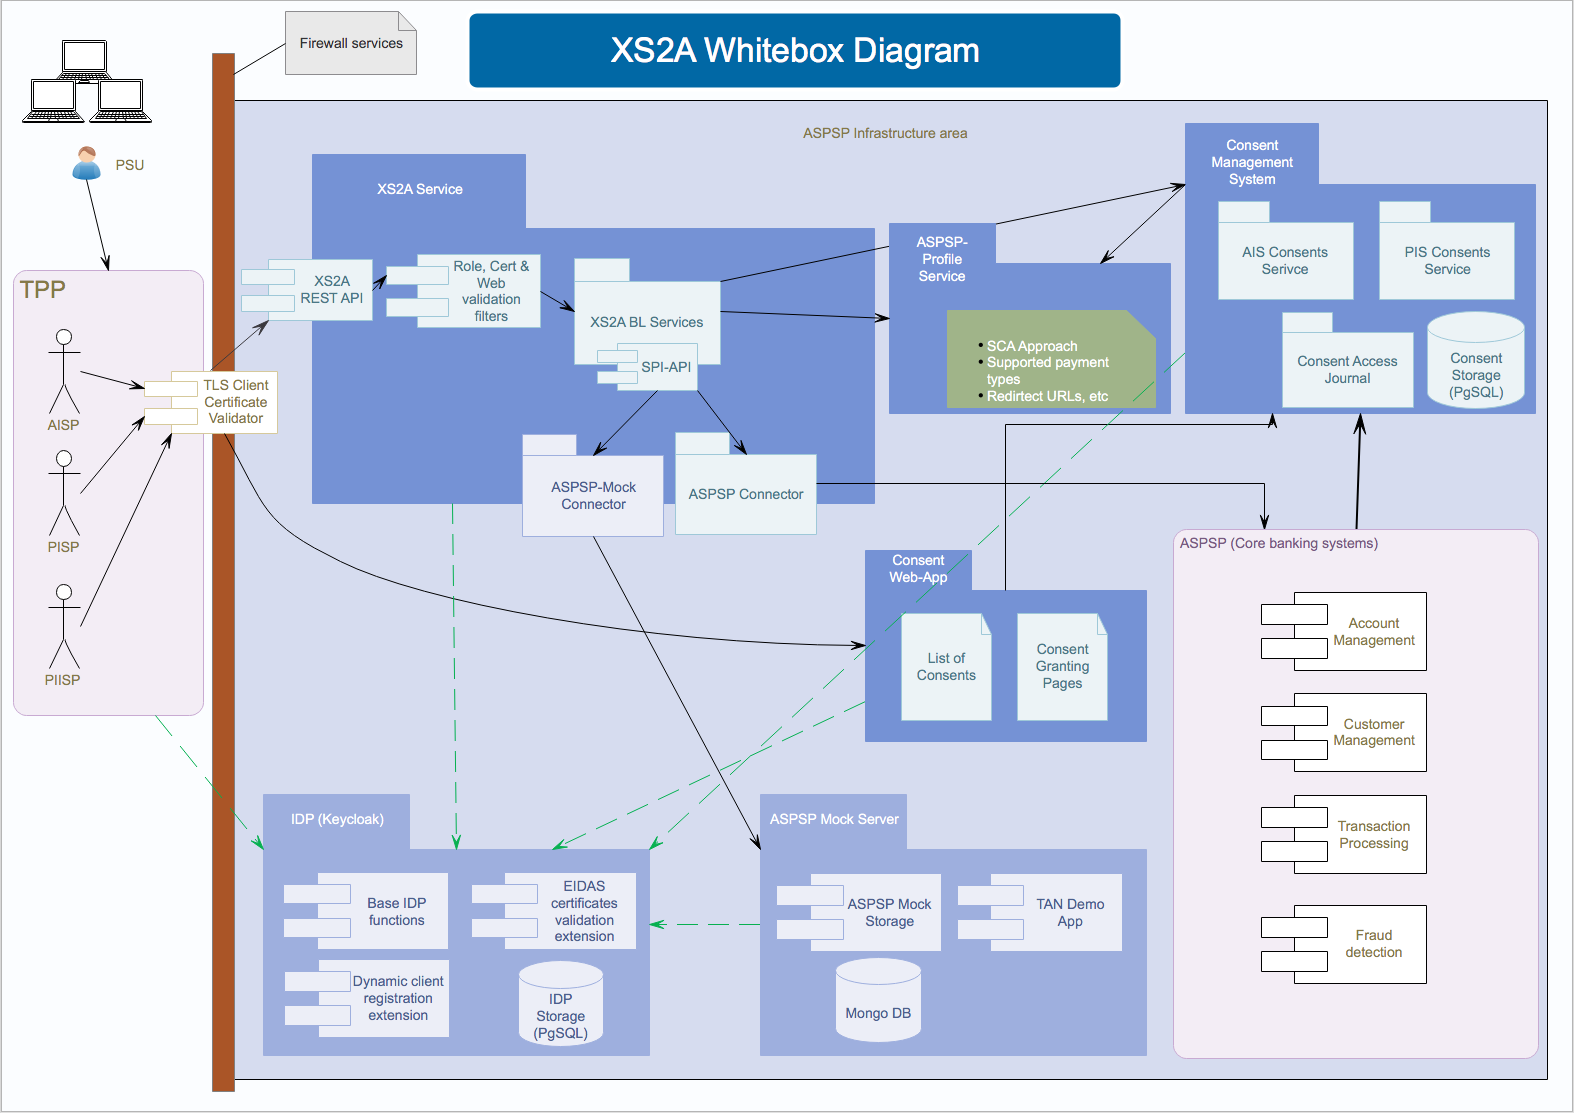
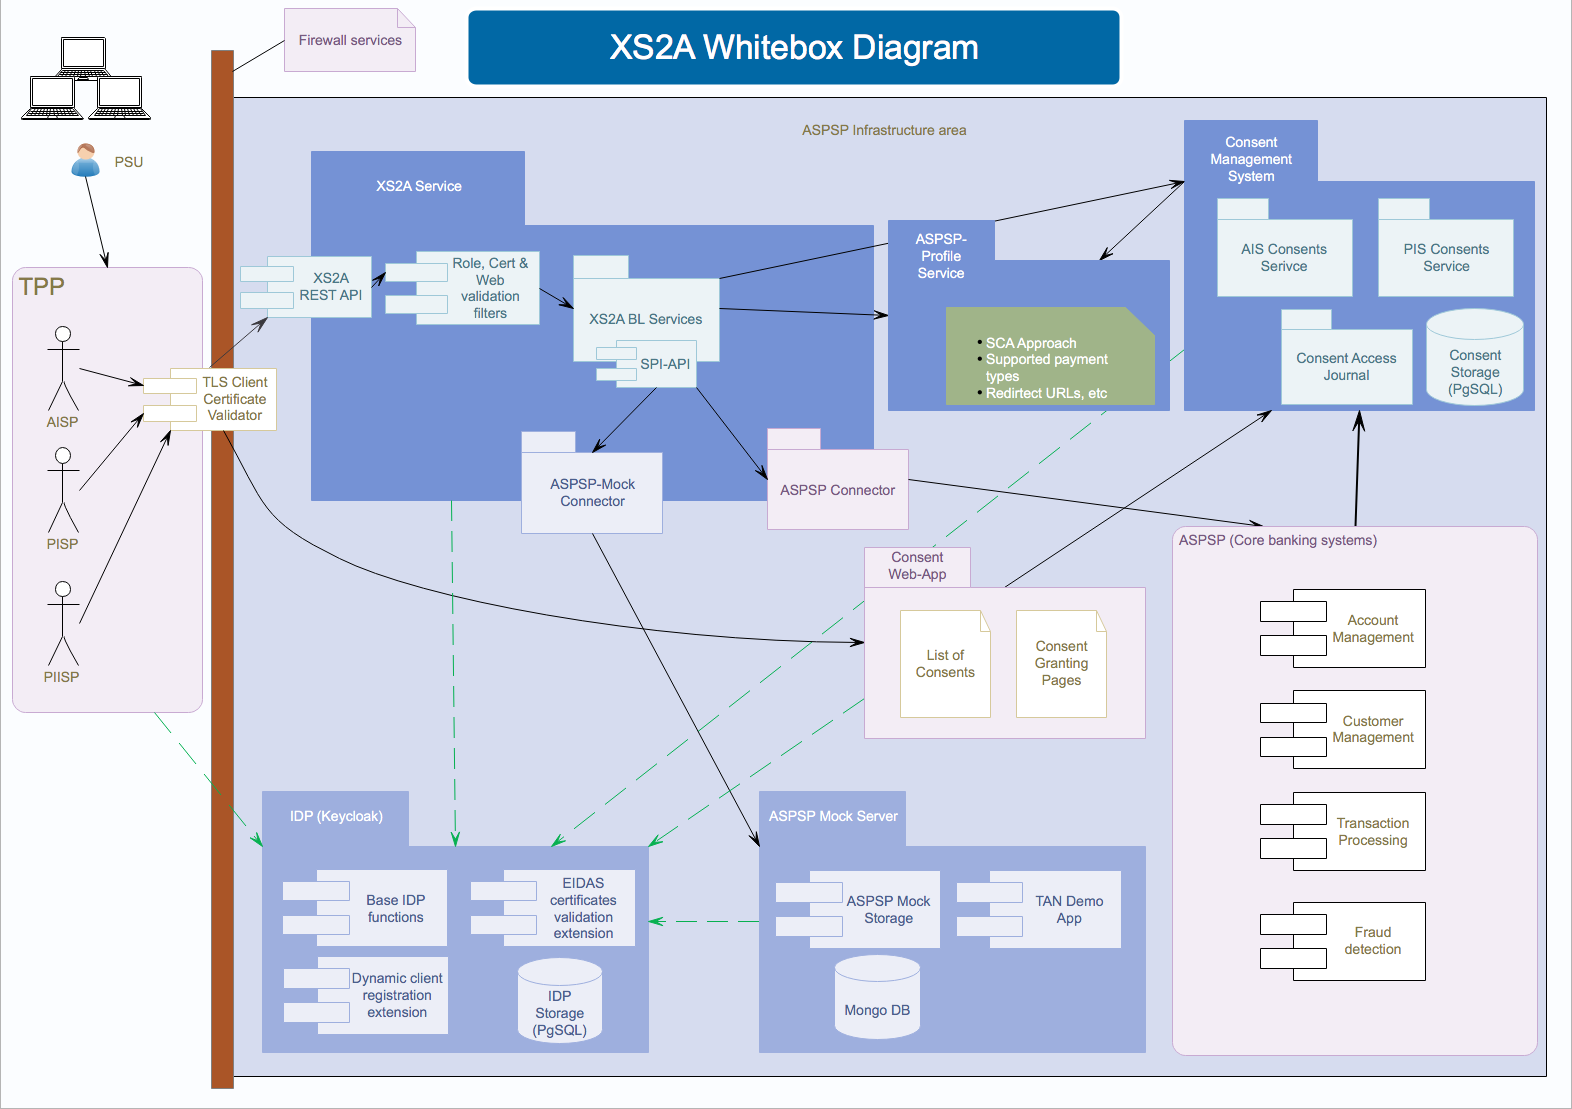
Update architecture description

diff --git a/doc/architecture/README.md b/doc/architecture/README.md
@@ -1,18 +1,68 @@
 # Architecture documentation
 
-### Brief architecture description
-
-This implementation provides a REST-interface and underlying services, that could be operated as a proxy to underlying ASPSP-Systems,
+This implementation provides a REST-interface and corresponding services, that could be operated as a proxy to 
+underlying ASPSP-Systems,
 providing capabilities to interoperate with TPP by defined XS2A Standard Interface of Berlin Group.
-![Component diagram](Whitebox.png)
 
-[Whitebox.png]: doc/architecture/Whitebox.png "Component diagram"
-
-The modules provided by this implementation are:
-* [**xs2a-impl**](../../xs2a-impl/README.md) - a REST-interface and services operating to serve TPPs
-* [**aspsp-idp**](../../aspsp-idp/README.md) - reference implementation of ASPSP Identity provider (IDP) based on Keycloak
-* [**aspsp-mock-server**](../../aspsp-mock-server/README.md) - a mock-implementation of ASPSP for the purposes of testing and introspecting of xs2a-functionality
-* [**aspsp-profile**](../../aspsp-profile/README.md) - a REST-interface of ASPS profile implementation for storing and getting information ASPSP
+### Brief modules description
+The maven modules provided by this implementation are:
+* [**aspsp-idp**](../../aspsp-idp/README.md) - provides identity provider for the service based on 
+[Keycloak](https://www.keycloak.org/) with extension for OpenID dynamic client registration
+* [**aspsp-mock-server**](../../aspsp-mock-server/README.md) - a mock-implementation of ASPSP for the purposes of 
+testing and introspecting of xs2a-functionality. Provides also a demo TAN application to grant XS2A consents by end-user 
+(PSU)
+* [**aspsp-profile**](../../aspsp-profile/README.md) - a service that provides static configuration of features, those 
+are supported by actual ASPSP 
+* **consent-api** - API Domain objects for intercommunication with Consent Management System
+* [**consent-management-system**](../../consent-management-system/README.md) - a service that stores and manages 
+consents given by the end user
+* **psd2-validator** - a reusable component to verify client certificate and signature according to PSD2 requirements
 * **spi-api** - internal Java interface to provide a universal way to implement connectors to underlying ASPSP Systems
 * **spi-mock** - an implementation of spi-api interface to connect XS2A-services with ASPSP-Mock-Server
+* [**xs2a-impl**](../../xs2a-impl/README.md) - a REST-interface and corresponding validators and services operating to 
+serve TPPs according to a Berlin Group operational rules
+
+### Components description
+![Component diagram](Whitebox.png)
+
+#### TLS Client Certificate Validator
+According to the operational rules, connections between TPP and ASPSP must be secured by TLS/HTTPS connection with a 
+client certificate. This component should provide the possibility to end SSL-Connection at the first edge before the 
+XS2A Service itself.
+While this functionality is typical for such firewall services, this module is not included into this project. However 
+the client certificate might be required to be included into a HTTP header for following processing on XS2A endpoints.
+
+#### XS2A-Service
+The major component that utilizes XS2A-compliant requests to ASPSP, performing their processing according to operational
+rules specified by Berlin Group. Based on the features supported by the ASPSP and configured by the ASPSP profile 
+perfoms all necessary operations to process TPP request, including its technical and business validation, logging and 
+serving corresponding redirect links in case of need.
+Includes ASPSP-specific implementation of SPI-API interface to communicate processing orders to ASPSP systems.
+ 
+Technically utilizes connections to ASPSP systems, as well as to ASPSP Profile and Consent Management System.
+
+#### Identity provider (IDP)
+A keycloak based implementation of OAuth2/OpenID Server that may be used as a ready solution to provide authentication 
+to the other components. Depending on the SCA aproach choosen by the ASPSP configuration is used to authorize all 
+connections between services or only access to the data in the mock-implementation.
+
+#### ASPSP-Profile
+ASPSP-Profile serves a configuration of XS2A features and options supported by the actual ASPSP to other components. 
+Normally this configuration is highly dependend from the core banking systems, therefore is not changed very often.
+A list of supported features should be provided by a developers guide of ASPSP.
+
+#### Consent Web-App
+Provides end-user interface to perform operations on the user's consents, including granting a consents, listing given 
+consents with their status and attributes and revoking consents. Due to high coupling with the other banking systems 
+this application is to be developed by every ASPSP itself.
+
+#### Consent Management System
+Stores and manages (granting, listening, using and revoking) various consents granted by the PSU to TPP to access 
+resources owned by PSU at the ASPSP. Normally this includes also logging access and usage of consents. 
+Provides a relational DB storage connector.
+
+#### ASPSP (Core banking systems)
+References to core banking systems responsible for processing payments, accounts management and other typical banking 
+processes. In XS2A Service ASPSP acts as an end-actor, who is reponsible to do the end-job with user data, based on TPP 
+request and consents given TPP by PSU.
 
